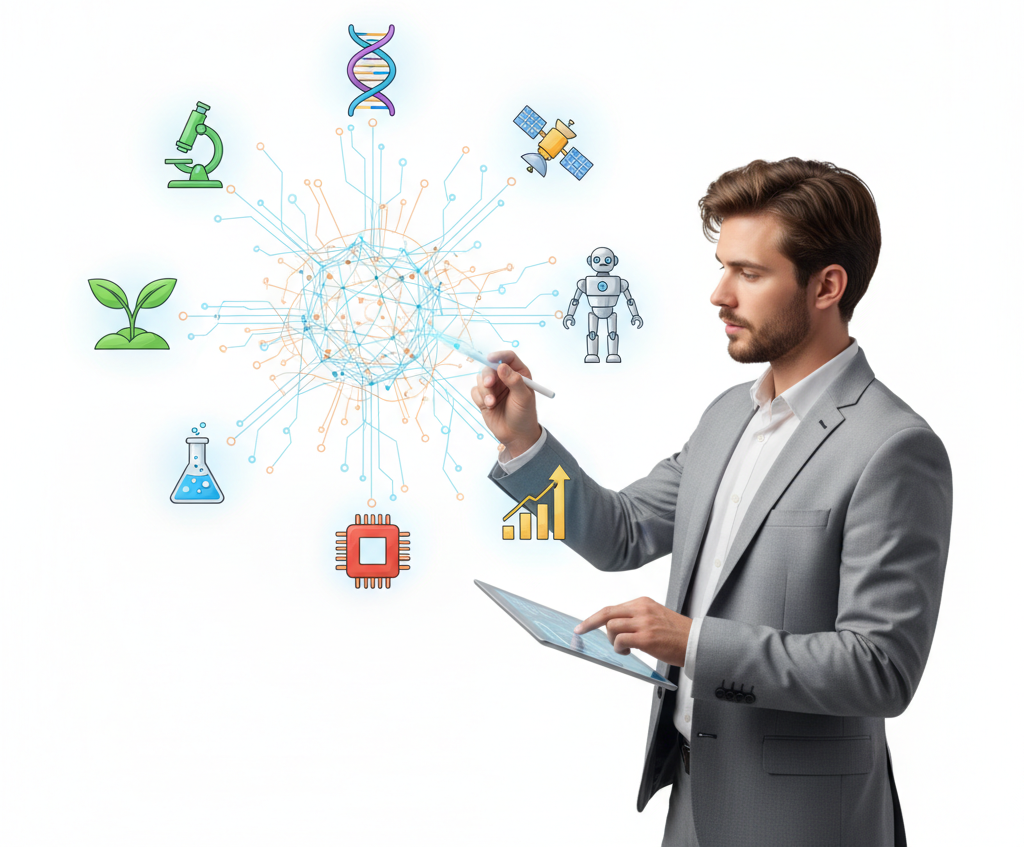
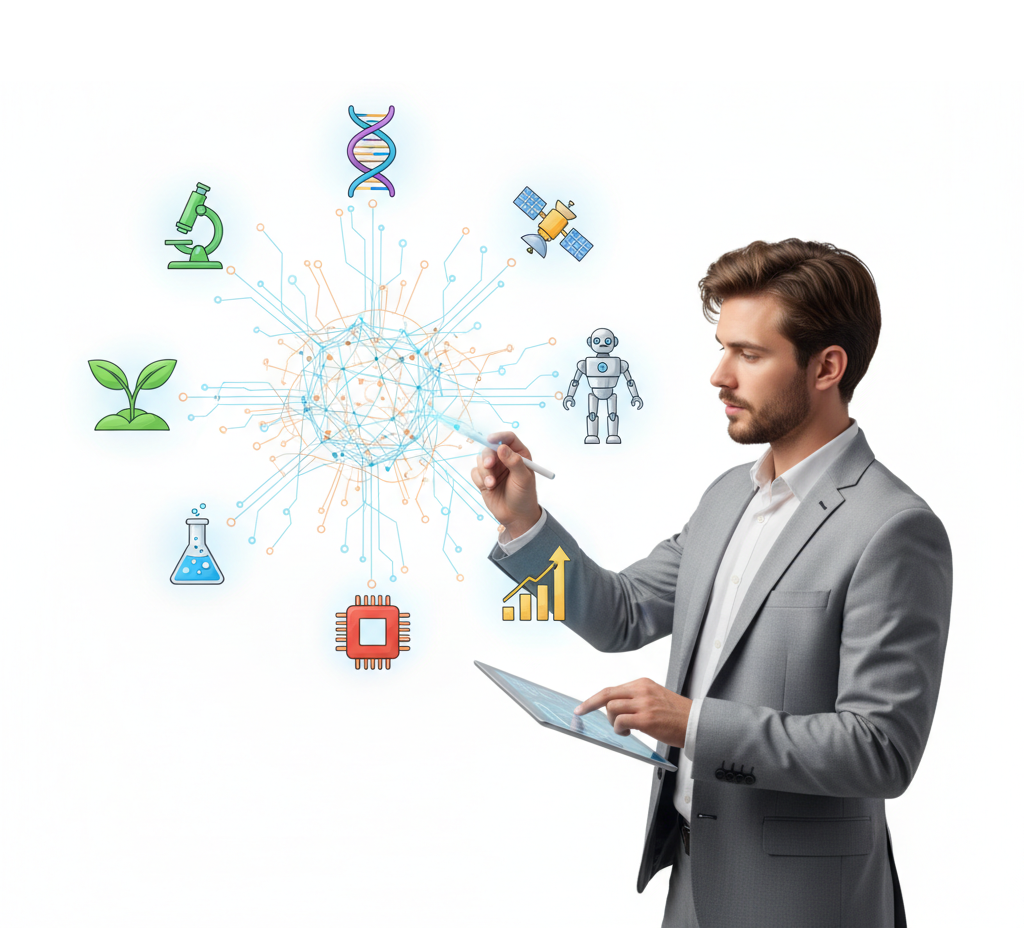
home screen image done

Changed region(s): [[0.0938, 0.0307, 0.9375, 0.9516]]

diff --git a/index.html b/index.html
@@ -38,7 +38,7 @@
       </button>
     </div>
   </nav>
-<section class="container">
+<section class="container h-100vh">
   <div class="row align-items-center">
     <!-- Left side -->
     <div class="col-md-6 col-12">
